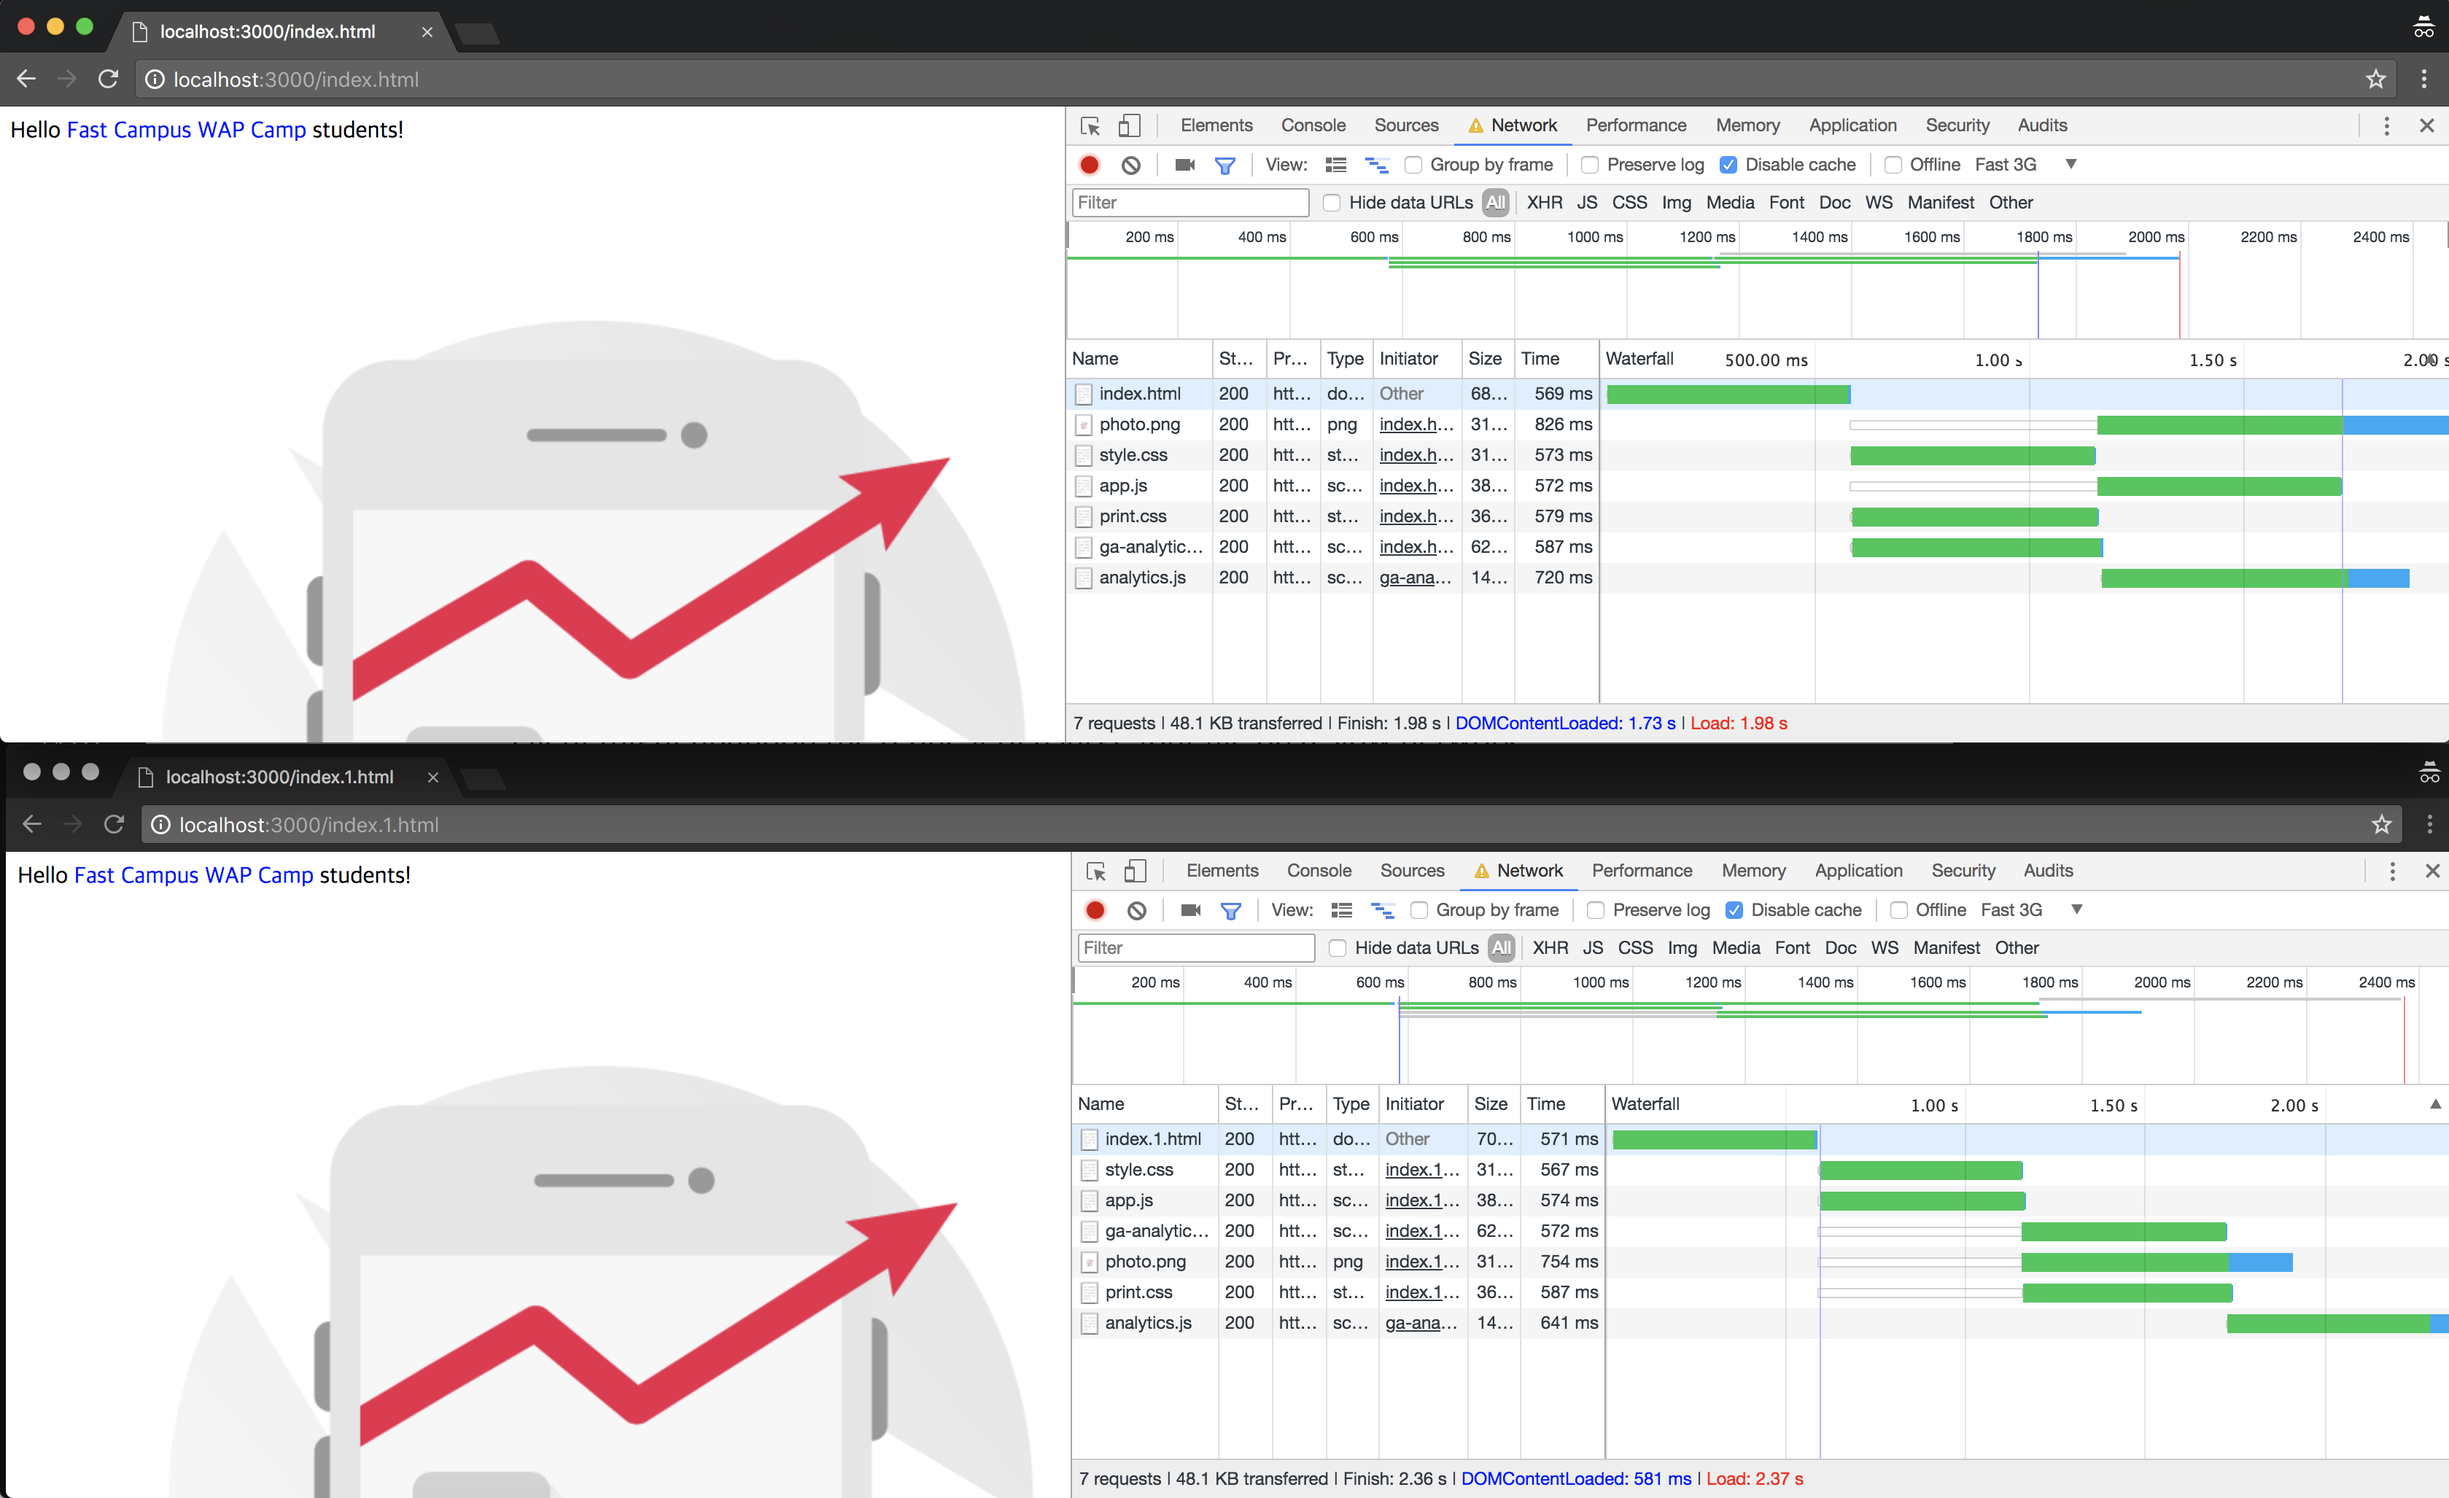
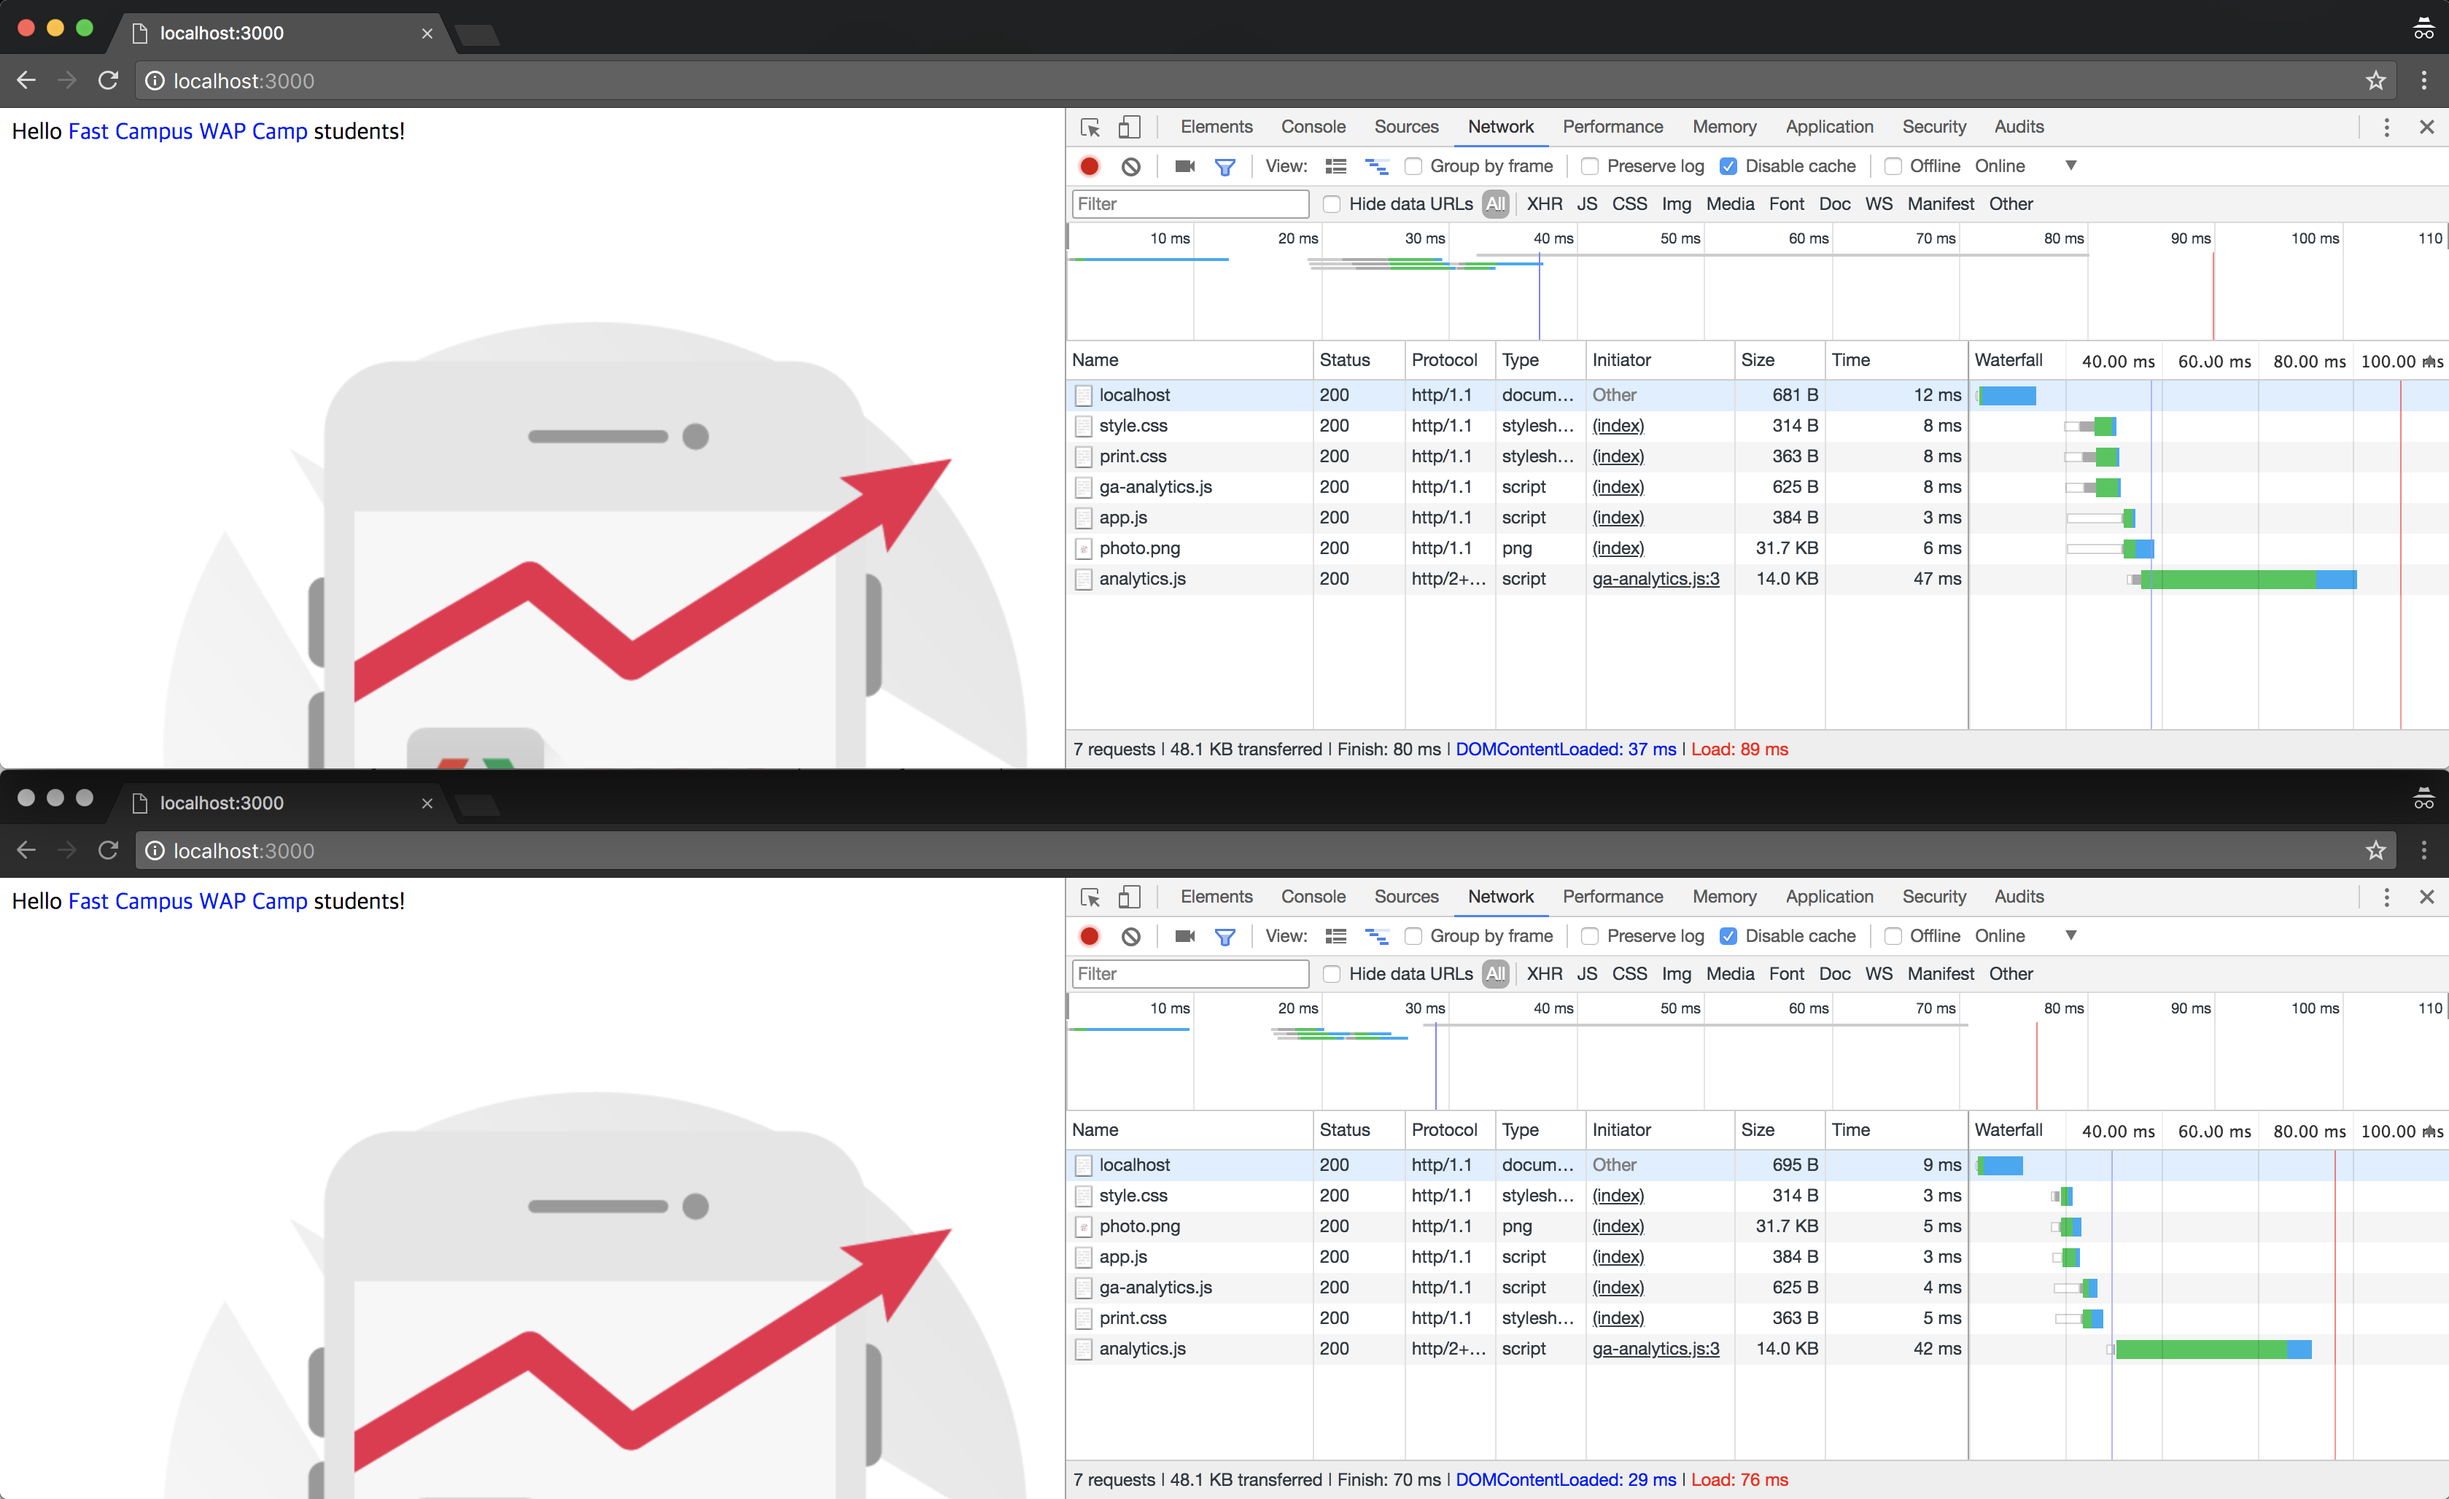
CRP최적화

diff --git a/optimize/quiz3/index.html b/optimize/quiz3/index.html
@@ -2,14 +2,14 @@
   <head>
     <meta name="viewport" content="width=device-width">
     <link href="style.css" rel="stylesheet">
-    <link href="print.css" rel="stylesheet">
+    <link href="print.css" rel="stylesheet" media="print">
   </head>
   <body>
-    <script src="ga-analytics.js"></script>
     <p>
       Hello <span>Fast Campus WAP Camp</span> students!
     </p>
     <div><img src="photo.png"></div>
     <script src="app.js"></script>
+    <script src="ga-analytics.js"></script>
   </body>
 </html>
